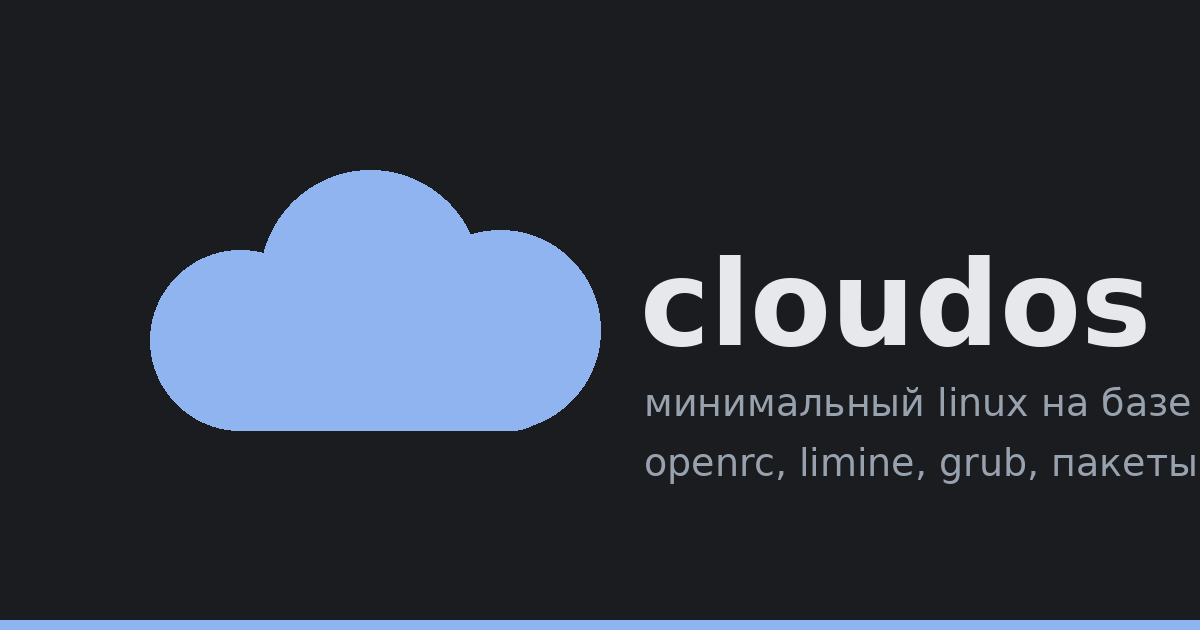
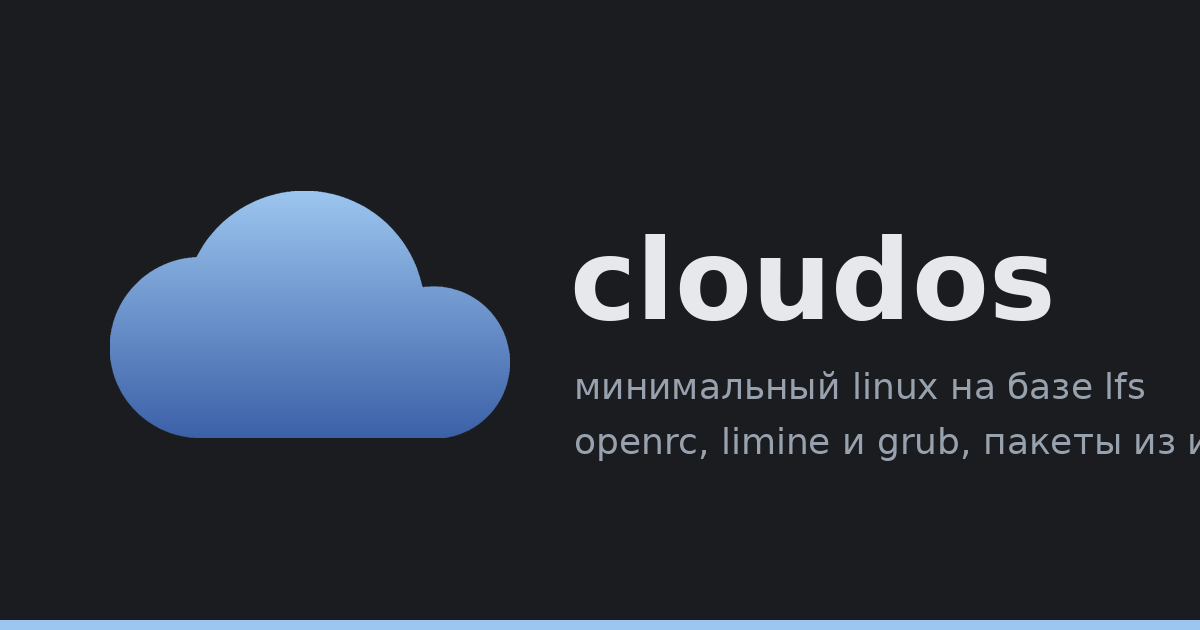
Add files via upload

Changed region(s): [[0.0925, 0.2714, 1.0, 0.7841]]

diff --git a/docs/i18n.js b/docs/i18n.js
@@ -45,6 +45,22 @@ var D={
 };
 var X2={"другие": "more", "железо": "hardware", "мастер установки": "install wizard", "картинки доступны только участникам с аккаунтом, не анонимам": "images are available only to members with an account, not anonymous users", "причина:": "reason:", "закреплено": "pinned", "закрыто": "closed", "закрытый": "private", "последний": "latest", "бета": "beta", "голосов:": "votes:", "изменено": "edited", "скачиваний:": "downloads:", "написал в вашем профиле": "wrote on your profile", "ответил в вашей теме": "replied in your thread", "ответил в теме, на которую вы подписаны": "replied in a thread you follow", "оценил ваше сообщение": "liked your post", "прокомментировал ваше сообщение": "commented on your post", "упомянул вас": "mentioned you", "полностью из базы вместе с темами и сообщениями? это нельзя отменить": "completely from the database with its threads and posts? this cannot be undone", "раздел видят только выбранные роли и админы. если ничего не выбрано, раздел открыт для всех.": "only the selected roles and admins can see this board. if nothing is selected, the board is open to everyone.", "открыть релизы на github": "open releases on github", "страница на github": "page on github", "предпросмотр:": "preview:", "баннер, цвет 1": "banner, color 1", "баннер, цвет 2": "banner, color 2", "ник, цвет 1": "nickname, color 1", "ник, цвет 2": "nickname, color 2", "угол": "angle", "найти": "find", "так будут выглядеть фон и шапка": "this is how the background and header will look", "без роли": "no role", "цвет 1": "color 1", "цвет 2": "color 2", "комментарий": "comment", "выбрать": "choose", "выдать значок": "award badge", "выше": "up", "ниже": "down", "доступ": "access", "закрыть жалобу": "close report", "изменить": "edit", "комментировать": "comment", "название": "name", "описание": "description", "пожаловаться": "report", "права": "permissions", "профиль": "profile", "закладки": "bookmarks", "реакция": "reaction", "сбросить профиль": "reset profile", "скрыть": "hide", "снять": "remove", "сообщения": "messages", "сохранить доступ": "save access", "сохранить права": "save permissions", "удалить жалобу": "delete report", "удалить значок": "delete badge", "удалить сообщение": "delete post", "удалить тему": "delete thread", "удалить": "delete", "управление": "manage", "условие": "condition", "цитата": "quote", "эмодзи": "emoji", "включить градиент": "enable gradient", "градиент ника": "nickname gradient", "сообщений за 7 дней": "posts in 7 days", "новых участников за 7 дней": "new members in 7 days", "открытых жалоб": "open reports", "активных банов": "active bans", "активных мутов": "active mutes", "тем": "threads", "участников": "members", "последние действия": "recent actions", "журнал": "log", "весь журнал": "full log", "все действия": "all actions", "все": "all", "обзор": "overview", "значки": "badges", "роли": "roles", "жалобы": "reports", "муты": "mutes", "баны": "bans", "админы": "admins", "вид": "view", "записей пока нет": "no entries yet", "жалоб пока нет": "no reports yet", "значков пока нет": "no badges yet", "журнал недоступен": "log unavailable", "значки недоступны": "badges unavailable", "жалобы недоступны": "reports unavailable", "панель недоступна": "panel unavailable", "нет доступа": "no access", "нет доступа.": "no access.", "эта страница только для администратора.": "this page is for the administrator only.", "сообщение уже удалено.": "this post is already deleted.", "ошибка загрузки": "loading error", "форум не запустился": "the forum failed to start", "неизвестная ошибка": "unknown error", "инициализация": "initialization", "пока пусто": "nothing here yet", "никого": "nobody", "никого не найдено": "nobody found", "никто не выбран": "nobody selected", "сначала выбери участника из поиска": "choose a member from the search first", "тем не найдено": "no threads found", "забанить": "ban", "замутить": "mute", "забаненные": "banned", "замученные": "muted", "панель банов": "bans panel", "панель мутов": "mutes panel", "снять бан": "lift ban", "снять мут": "lift mute", "снят бан": "ban lifted", "снят мут": "mute lifted", "снят": "lifted", "бан": "ban", "мут": "mute", "банить": "ban", "мутить": "mute", "бан до": "banned until", "мут до": "muted until", "вы забанены до": "you are banned until", "вы замучены до": "you are muted until", "вы в муте:": "you are muted:", "ваш аккаунт заблокирован:": "your account is blocked:", "причина (необязательно)": "reason (optional)", "срок: 10m, 1h, 1d, 7d, 30d или навсегда": "duration: 10m, 1h, 1d, 7d, 30d or forever", "неверный срок, пример: 30m, 2h, 3d, навсегда": "invalid duration, for example: 30m, 2h, 3d, forever", "нужно право мутить или банить.": "you need the permission to mute or ban.", "1 час": "1 hour", "1 день": "1 day", "10 минут": "10 minutes", "7 дней": "7 days", "30 дней": "30 days", "навсегда": "forever", "выдал бан": "issued a ban", "выдал мут": "issued a mute", "закрепил тему": "pinned a thread", "открепил тему": "unpinned a thread", "закрыл тему": "closed a thread", "открыл тему": "opened a thread", "удалил пользователя": "deleted a user", "удалил сообщение": "deleted a post", "удалил тему": "deleted a thread", "сбросил профиль": "reset a profile", "сменил роль": "changed a role", "снял бан": "lifted a ban", "снял мут": "lifted a mute", "изменил доступ к разделу": "changed board access", "изменил права": "changed permissions", "изменил статус админа": "changed admin status", "создал тему": "created a thread", "банить участников": "ban members", "мутить участников": "mute members", "закреплять темы": "pin threads", "закрывать и открывать темы": "close and open threads", "удалять темы": "delete threads", "удалять чужие сообщения": "delete other people's posts", "удалять комментарии в профилях": "delete profile comments", "выдавать роли без прав": "assign roles without permissions", "создать роль": "create role", "сохранить роль": "save role", "удалить роль?": "delete role?", "права этой роли": "permissions of this role", "роль": "role", "назначен": "assigned", "без прав": "no permissions", "прав:": "permissions:", "сделать админом": "make admin", "снять админа": "remove admin", "сделать администратором? он получит полный доступ": "make administrator? they will get full access", "снять права администратора?": "remove administrator rights?", "снять ограничение?": "remove the restriction?", "сбросить аватар, баннер, о себе и статус этого участника?": "reset this member's avatar, banner, about and status?", "профиль сброшен": "profile reset", "удалить значок у всех?": "delete the badge from everyone?", "удалить раздел со всеми темами?": "delete the board with all its threads?", "добавить раздел": "add board", "новый раздел": "new board", "новое название": "new name", "описание раздела": "board description", "создать значок": "create badge", "условие: posts, likes, threads, solved или days и число, например posts 10. пусто - убрать условие": "condition: posts, likes, threads, solved or days and a number, for example posts 10. empty to remove the condition", "нужен формат: posts 10": "format required: posts 10", "сохранено": "saved", "после сохранения объявление снова покажется всем, кто его скрыл.": "after saving, the announcement will be shown again to everyone who hid it.", "показывать объявление": "show announcement", "объявление": "announcement", "обычное": "normal", "важное": "important", "важно": "important", "картинка (файл)": "image (file)", "картинка баннера (ссылка https, необязательно)": "banner image (https link, optional)", "дн.": "d.", "имя можно сменить через": "the name can be changed in", "на форуме с": "on the forum since", "рейтинг:": "rating:", "рейтинг ·": "rating ·", "ответов:": "replies:", "тем:": "threads:", "участников:": "members:", "гостей:": "guests:", "сейчас активны": "active now", "это ты": "this is you", "вы:": "you:", "новая": "new", "закрыта": "closed", "новых:": "new:", "не удалось создать тему:": "could not create the thread:", "не удалось создать сообщение:": "could not create the post:", "не удалось удалить:": "could not delete:", "тема создана, но опрос не создался:": "thread created, but the poll was not created:", "не загрузился файл:": "file failed to load:", "убрать из закладок": "remove from bookmarks", "в закладки": "add to bookmarks", "убрать тему из закладок": "remove thread from bookmarks", "отписаться от темы": "unsubscribe from thread", "подписаться на тему": "subscribe to thread", "открыть": "open", "закрыть": "close", "открепить": "unpin", "закрепить": "pin", "снять отметку «решено»": "remove the \"solved\" mark", "отметить решённой": "mark as solved", "изменить теги": "edit tags", "добавить теги": "add tags", "можно выбрать несколько": "multiple choice", "один вариант": "single choice", "сообщение от": "post from", "удалён": "deleted", "участник": "member", "[картинка]": "[image]", "писал(а):": "wrote:", "готовый скрипт под твой диск": "ready script for your disk", "что нового в cloudos: готовое, в работе и планы.": "what is new in cloudos: done, in progress and plans.", "что входит в stage 3 и что ставится через cloudpkg.": "what is in stage 3 and what is installed via cloudpkg.", "на чём cloudos уже проверен.": "what cloudos has been tested on.", "новое: cloudos": "news: cloudos", "пакеты: cloudos": "packages: cloudos", "релизы cloudos": "cloudos releases", "форум cloudos": "cloudos forum", "железо: cloudos": "hardware: cloudos", "мастер установки: cloudos": "install wizard: cloudos", "библиотеки": "libraries", "инструменты сборки": "build tools", "утилиты": "utilities", "система": "system", "сеть": "network", "файловые системы": "file systems", "файловая система": "file system", "имя": "name", "введи диск и режим, получи готовый скрипт установки cloudos.": "enter your disk and mode, get a ready cloudos install script.", "маленькие буквы, цифры и дефис": "lowercase letters, digits and hyphen", "маленькие буквы, цифры, дефис": "lowercase letters, digits, hyphen", "формат: /dev/sda, /dev/vda или /dev/nvme0n1": "format: /dev/sda, /dev/vda or /dev/nvme0n1", "формат: 6.18.10": "format: 6.18.10", "формат: Europe/Moscow": "format: Europe/Moscow", "число от 0 до 128": "number from 0 to 128", "ошибка": "error", "выполняй в живой системе. выход: exit, потом umount -R /mnt/cloudos.": "run in the live system. to leave: exit, then umount -R /mnt/cloudos.", "выполняй в живой системе, раздел boot уже смонтирован.": "run in the live system, the boot partition is already mounted.", "выполняй внутри chroot.": "run inside chroot.", "uuid в fstab и в конфиге загрузчика должны совпадать с blkid.": "uuids in fstab and in the bootloader config must match blkid.", "заметка": "note", "примечание": "note", "выбран:": "selected:", "локаль": "locale", "службы": "services", "подписаться": "subscribe", "поиск по форуму": "search the forum"};
 X2["ссылка скопирована"]="link copied";
+X2["установка"]="install";
+X2["проект"]="project";
+X2["помощник по ядру"]="kernel helper";
+X2["определение железа"]="hardware detection";
+X2["схема загрузки"]="boot flow";
+X2["состав stage 3"]="stage 3 contents";
+X2["отметь"]="select";
+X2["отмечаешь своё железо и получаешь готовую команду настройки ядра с проверкой, что всё включилось."]="you select your hardware and get a ready kernel configuration command with a check that everything was enabled.";
+X2["вставляешь вывод lsblk и lspci: сайт находит диски для мастера, настройки ядра и готовит запись для таблицы железа."]="you paste the output of lsblk and lspci: the site finds disks for the wizard, kernel settings and prepares an entry for the hardware table.";
+X2["интерактивная схема от прошивки до входа в систему: файлы, команды проверки и типичные поломки каждого этапа."]="an interactive diagram from firmware to login: files, check commands and typical failures of every stage.";
+X2["карта размеров: из каких каталогов состоит система и сколько места они занимают."]="a size map: which directories the system consists of and how much space they take.";
+X2["подсказки к командам"]="command hints";
+X2["в справочнике у блоков кода появилась кнопка с вопросом: она объясняет каждую команду и её ключи."]="code blocks in the handbook now have a question button: it explains each command and its options.";
+X2["режимы чтения"]="reading modes";
+X2["в настройках: размер текста, высокий контраст и режим «только команды» для справочника. Ctrl+K теперь умеет и действия, а знак вопроса открывает палитру."]="in settings: text size, high contrast and a commands-only mode for the handbook. Ctrl+K now also runs actions, and the question mark opens the palette.";
+
 X2["установка как в gentoo: вручную по справочнику или одним скриптом из мастера установки. каждый шаг подробно описан в справочнике."]="installation like in gentoo: by hand following the handbook, or with a single script from the install wizard. every step is described in detail in the handbook.";
 X2["графического установщика"]="a graphical installer";
 X2["limine и grub"]="limine and grub";

diff --git a/docs/index.html b/docs/index.html
@@ -21,12 +21,12 @@
 <link rel="preconnect" href="https://fonts.googleapis.com">
 <link rel="preconnect" href="https://fonts.gstatic.com" crossorigin>
 <link href="https://fonts.googleapis.com/css2?family=IBM+Plex+Mono:wght@400;500&family=IBM+Plex+Sans:wght@400;500;600&display=swap" rel="stylesheet">
-<link rel="stylesheet" href="style.css?v=10">
+<link rel="stylesheet" href="style.css?v=11">
 <link rel="stylesheet" href="site.css?v=1">
 <link rel="stylesheet" href="theme.css?v=5">
-<link rel="stylesheet" href="settings.css?v=2">
-<script src="theme.js?v=8"></script>
-<script src="i18n.js?v=2"></script>
+<link rel="stylesheet" href="settings.css?v=3">
+<script src="theme.js?v=9"></script>
+<script src="i18n.js?v=3"></script>
 <script src="gate.js?v=2"></script>
 <meta name="google-site-verification" content="18RICMRH_Gf_bcSQ7dL6TLRFiu3xmfDnoj_icw04Zkg" />
 <script type="application/ld+json">{"@context": "https://schema.org", "@type": "SoftwareApplication", "name": "CloudOS", "alternateName": "cloudos", "applicationCategory": "OperatingSystem", "operatingSystem": "Linux x86_64", "description": "cloudos: минимальный linux на базе lfs. openrc, ванильное ядро, limine или grub, пакеты из исходников.", "url": "https://wh1laye.github.io/cloudos-repo/", "image": "https://wh1laye.github.io/cloudos-repo/og.png", "license": "https://opensource.org/licenses/MIT", "author": {"@type": "Person", "name": "wh1laye", "url": "https://github.com/wh1laye"}, "codeRepository": "https://github.com/wh1laye/cloudos-repo"}</script>
@@ -34,7 +34,7 @@
 <body>
 <header class="top">
 <a class="brand" href="./" aria-label="cloudos"><svg viewBox="0 0 64 40" aria-hidden="true"><defs><linearGradient id="g" x1="0" y1="0" x2="0" y2="1"><stop offset="0" stop-color="#9cc8f2"/><stop offset="1" stop-color="#3b5fa8"/></linearGradient></defs><path d="M29.72 1.00C29.24 1.04 28.61 1.12 28.05 1.21C27.50 1.31 26.94 1.43 26.39 1.59C25.83 1.74 25.28 1.93 24.72 2.13C24.17 2.34 23.61 2.56 23.05 2.83C22.50 3.09 21.94 3.38 21.39 3.73C20.83 4.08 20.26 4.48 19.72 4.90C19.19 5.32 18.66 5.78 18.18 6.25C17.69 6.72 17.24 7.21 16.81 7.74C16.38 8.26 15.95 8.85 15.59 9.41C15.23 9.96 15.07 10.75 14.63 11.07C14.20 11.40 13.53 11.25 12.98 11.36C12.43 11.46 11.87 11.55 11.32 11.71C10.76 11.87 10.20 12.07 9.65 12.31C9.09 12.56 8.54 12.83 7.98 13.16C7.43 13.50 6.83 13.91 6.31 14.33C5.80 14.75 5.36 15.19 4.91 15.68C4.46 16.18 4.00 16.76 3.62 17.31C3.24 17.86 2.94 18.42 2.66 18.98C2.38 19.54 2.15 20.09 1.95 20.65C1.76 21.20 1.61 21.76 1.49 22.31C1.38 22.87 1.30 23.43 1.26 23.98C1.22 24.54 1.24 25.09 1.26 25.65C1.28 26.20 1.32 26.76 1.40 27.31C1.49 27.87 1.60 28.43 1.76 28.98C1.92 29.54 2.12 30.09 2.36 30.65C2.61 31.20 2.88 31.76 3.23 32.31C3.58 32.87 4.01 33.46 4.44 33.98C4.86 34.50 5.30 34.97 5.80 35.42C6.31 35.87 6.91 36.32 7.47 36.69C8.02 37.07 8.58 37.38 9.13 37.65C9.69 37.92 10.25 38.13 10.80 38.31C11.36 38.49 11.91 38.63 12.47 38.73C13.02 38.84 13.58 38.88 14.13 38.93C14.69 38.97 15.25 38.99 15.80 39.00C16.36 39.01 16.91 39.00 17.47 39.00C18.02 39.00 18.58 39.00 19.14 39.00C19.69 39.00 20.25 39.00 20.80 39.00C21.36 39.00 21.91 39.00 22.47 39.00C23.02 39.00 23.58 39.00 24.14 39.00C24.69 39.00 25.25 39.00 25.80 39.00C26.36 39.00 26.91 39.00 27.47 39.00C28.03 39.00 28.58 39.00 29.14 39.00C29.69 39.00 30.25 39.00 30.80 39.00C31.36 39.00 31.91 39.00 32.47 39.00C33.03 39.00 33.58 39.00 34.14 39.00C34.69 39.00 35.25 39.00 35.80 39.00C36.36 39.00 36.91 39.00 37.47 39.00C38.03 39.00 38.58 39.00 39.14 39.00C39.69 39.00 40.25 39.00 40.80 39.00C41.36 39.00 41.92 39.00 42.47 39.00C43.03 39.00 43.58 39.00 44.14 39.00C44.69 39.00 45.25 39.00 45.80 39.00C46.36 39.00 46.92 39.00 47.47 39.00C48.03 39.00 48.58 39.00 49.14 39.00C49.69 39.00 50.25 39.00 50.80 39.00C51.36 39.00 51.92 39.05 52.47 39.00C53.03 38.95 53.58 38.85 54.14 38.70C54.69 38.54 55.25 38.33 55.81 38.08C56.36 37.82 56.93 37.54 57.47 37.17C58.02 36.81 58.60 36.35 59.09 35.88C59.58 35.41 60.02 34.90 60.42 34.37C60.81 33.84 61.17 33.26 61.46 32.71C61.75 32.15 61.97 31.59 62.15 31.04C62.34 30.48 62.46 29.93 62.56 29.37C62.66 28.82 62.72 28.26 62.74 27.70C62.76 27.15 62.74 26.59 62.67 26.04C62.60 25.48 62.47 24.93 62.31 24.37C62.16 23.82 61.99 23.26 61.75 22.70C61.50 22.15 61.19 21.59 60.82 21.04C60.46 20.49 60.02 19.90 59.56 19.41C59.11 18.91 58.60 18.46 58.08 18.06C57.55 17.66 56.96 17.30 56.41 17.01C55.85 16.72 55.30 16.51 54.74 16.32C54.19 16.13 53.63 16.00 53.07 15.90C52.52 15.79 51.96 15.71 51.41 15.68C50.85 15.66 50.15 15.95 49.74 15.75C49.33 15.56 49.16 15.01 48.94 14.53C48.72 14.05 48.62 13.42 48.41 12.86C48.20 12.31 47.95 11.75 47.67 11.20C47.39 10.64 47.08 10.08 46.73 9.53C46.37 8.97 45.95 8.39 45.52 7.86C45.09 7.33 44.64 6.84 44.16 6.36C43.67 5.87 43.16 5.40 42.63 4.97C42.10 4.55 41.52 4.15 40.96 3.80C40.41 3.46 39.85 3.17 39.30 2.90C38.74 2.63 38.19 2.38 37.63 2.17C37.07 1.96 36.52 1.77 35.96 1.62C35.41 1.47 34.85 1.34 34.30 1.25C33.74 1.15 33.19 1.09 32.63 1.05C32.07 1.01 31.45 1.01 30.96 1.00C30.48 0.99 30.21 0.96 29.72 1.00Z" fill="url(#g)"/></svg>cloudos</a>
-<nav class="hl"><a class="gh on" aria-current="page" href=""><svg viewBox="0 0 24 24" aria-hidden="true"><path d="M4 11l8-7 8 7v9h-5v-6H9v6H4z"/></svg><span>главная</span></a><a class="gh" href="handbook/"><svg viewBox="0 0 24 24" aria-hidden="true"><path d="M5 4h11a3 3 0 0 1 3 3v13H8a3 3 0 0 1-3-3zM5 17a3 3 0 0 1 3-3h11"/></svg><span>справочник</span></a><div class="ddw"><button type="button" class="gh" id="ob" aria-haspopup="true" aria-expanded="false"><svg viewBox="0 0 24 24" aria-hidden="true"><path d="M5 12h.01M12 12h.01M19 12h.01" stroke-width="3"/></svg><span>другие</span></button><div class="ddm" id="om" hidden><a class="ddi" href="news/"><svg viewBox="0 0 24 24" aria-hidden="true"><path d="M12 3l2.4 5.6 6 .6-4.5 4 1.4 6-5.3-3.2L6.7 19.2l1.4-6-4.5-4 6-.6z"/></svg>новое</a><a class="ddi" href="hardware/"><svg viewBox="0 0 24 24" aria-hidden="true"><path d="M7 7h10v10H7zM9 3v4M15 3v4M9 17v4M15 17v4M3 9h4M3 15h4M17 9h4M17 15h4"/></svg>железо</a><a class="ddi" href="packages/"><svg viewBox="0 0 24 24" aria-hidden="true"><path d="M12 3l8 4.5v9L12 21l-8-4.5v-9zM4 7.5l8 4.5 8-4.5M12 12v9"/></svg>пакеты</a><a class="ddi" href="wizard/"><svg viewBox="0 0 24 24" aria-hidden="true"><path d="M4 5h16v14H4zM7 9l3 3-3 3M12 15h5"/></svg>мастер установки</a><a class="ddi" href="compare/"><svg viewBox="0 0 24 24" aria-hidden="true"><path d="M12 4v16M5 20h14M5 7h14M5 7l-3 6a3 3 0 0 0 6 0zM19 7l-3 6a3 3 0 0 0 6 0z"/></svg>сравнение</a></div></div><a class="gh" href="forum/"><svg viewBox="0 0 24 24" aria-hidden="true"><path d="M4 5h16v11H9l-5 4z"/></svg><span>форум</span></a><a class="gh" href="releases/"><svg viewBox="0 0 24 24" aria-hidden="true"><path d="M12 4v11M7 11l5 5 5-5M5 20h14"/></svg><span>релизы</span></a></nav>
+<nav class="hl"><a class="gh on" aria-current="page" href=""><svg viewBox="0 0 24 24" aria-hidden="true"><path d="M4 11l8-7 8 7v9h-5v-6H9v6H4z"/></svg><span>главная</span></a><a class="gh" href="handbook/"><svg viewBox="0 0 24 24" aria-hidden="true"><path d="M5 4h11a3 3 0 0 1 3 3v13H8a3 3 0 0 1-3-3zM5 17a3 3 0 0 1 3-3h11"/></svg><span>справочник</span></a><div class="ddw"><button type="button" class="gh" id="ob" aria-haspopup="true" aria-expanded="false"><svg viewBox="0 0 24 24" aria-hidden="true"><path d="M5 12h.01M12 12h.01M19 12h.01" stroke-width="3"/></svg><span>другие</span></button><div class="ddm" id="om" hidden><div class="ddh">установка</div><a class="ddi" href="wizard/"><svg viewBox="0 0 24 24" aria-hidden="true"><path d="M4 5h16v14H4zM7 9l3 3-3 3M12 15h5"/></svg>мастер установки</a><a class="ddi" href="kernel/"><svg viewBox="0 0 24 24" aria-hidden="true"><path d="M12 8a4 4 0 1 0 0 8 4 4 0 0 0 0-8zM12 2v3M12 19v3M2 12h3M19 12h3M5 5l2 2M17 17l2 2M19 5l-2 2M7 17l-2 2"/></svg>помощник по ядру</a><a class="ddi" href="detect/"><svg viewBox="0 0 24 24" aria-hidden="true"><circle cx="11" cy="11" r="6"/><path d="M16 16l5 5"/></svg>определение железа</a><a class="ddi" href="boot/"><svg viewBox="0 0 24 24" aria-hidden="true"><path d="M12 3v8M6.5 6.5a8 8 0 1 0 11 0"/></svg>схема загрузки</a><div class="ddh">проект</div><a class="ddi" href="news/"><svg viewBox="0 0 24 24" aria-hidden="true"><path d="M12 3l2.4 5.6 6 .6-4.5 4 1.4 6-5.3-3.2L6.7 19.2l1.4-6-4.5-4 6-.6z"/></svg>новое</a><a class="ddi" href="hardware/"><svg viewBox="0 0 24 24" aria-hidden="true"><path d="M7 7h10v10H7zM9 3v4M15 3v4M9 17v4M15 17v4M3 9h4M3 15h4M17 9h4M17 15h4"/></svg>железо</a><a class="ddi" href="packages/"><svg viewBox="0 0 24 24" aria-hidden="true"><path d="M12 3l8 4.5v9L12 21l-8-4.5v-9zM4 7.5l8 4.5 8-4.5M12 12v9"/></svg>пакеты</a><a class="ddi" href="stage3/"><svg viewBox="0 0 24 24" aria-hidden="true"><path d="M12 3l9 5-9 5-9-5zM3 13l9 5 9-5"/></svg>состав stage 3</a><a class="ddi" href="compare/"><svg viewBox="0 0 24 24" aria-hidden="true"><path d="M12 4v16M5 20h14M5 7h14M5 7l-3 6a3 3 0 0 0 6 0zM19 7l-3 6a3 3 0 0 0 6 0z"/></svg>сравнение</a></div></div><a class="gh" href="forum/"><svg viewBox="0 0 24 24" aria-hidden="true"><path d="M4 5h16v11H9l-5 4z"/></svg><span>форум</span></a><a class="gh" href="releases/"><svg viewBox="0 0 24 24" aria-hidden="true"><path d="M12 4v11M7 11l5 5 5-5M5 20h14"/></svg><span>релизы</span></a></nav>
 </header>
 <main class="lp" id="top">
 <section class="hero">
@@ -126,6 +126,6 @@
 </footer>
 </main>
 <script src="site.js?v=1"></script>
-<script src="cmdk.js?v=1" defer></script>
+<script src="cmdk.js?v=2" defer></script>
 </body>
 </html>

diff --git a/docs/cmdk.js b/docs/cmdk.js
@@ -1,21 +1,40 @@
 (function(){
-if(/\/handbook\//.test(location.pathname))return;
+if(/\/handbook\//.test(location.pathname)&&false)return;
 var d=document,sc=d.currentScript,root=sc?sc.src.replace(/cmdk\.js.*$/,''):'';
-if(window.I18N&&window.I18N.add)window.I18N.add({'мастер установки':'install wizard'});
-var P=[["", "главная"], ["wizard/", "мастер установки"],["compare/", "сравнение"], ["handbook/", "справочник"], ["news/", "новое"], ["forum/", "форум"], ["releases/", "релизы"], ["packages/", "пакеты"], ["hardware/", "железо"]];
+if(window.I18N&&window.I18N.add)window.I18N.add({"действие": "action", "помощник по ядру": "kernel helper", "определение железа": "hardware detection", "схема загрузки": "boot flow", "состав stage 3": "stage 3 contents", "тема: светлая": "theme: light", "тема: серая": "theme: gray", "тема: авто": "theme: auto", "язык: english": "language: english", "язык: русский": "language: russian", "текст крупнее": "larger text", "текст мельче": "smaller text", "высокий контраст: переключить": "high contrast: toggle", "только команды в справочнике: переключить": "commands only in the handbook: toggle", "открыть настройки": "open settings", "скопировать ссылку на страницу": "copy page link"});
+var P=[["", "главная"], ["handbook/", "справочник"], ["wizard/", "мастер установки"], ["kernel/", "помощник по ядру"], ["detect/", "определение железа"], ["boot/", "схема загрузки"], ["stage3/", "состав stage 3"], ["compare/", "сравнение"], ["news/", "новое"], ["forum/", "форум"], ["releases/", "релизы"], ["packages/", "пакеты"], ["hardware/", "железо"]];
 var C=[["about", "1. о cloudos"], ["prep", "2. подготовка"], ["disk", "3. диск и файловые системы"], ["stage", "4. stage 3"], ["chroot", "5. вход в chroot"], ["conf", "6. настройка сборки"], ["kernel", "7. ядро"], ["boot", "8. загрузчик"], ["final", "9. завершение"], ["first", "10. первая загрузка"], ["cpkg", "11. пакеты и cloudpkg"], ["maint", "12. обслуживание"], ["next", "13. что дальше"], ["errors", "14. ошибки и решения"], ["cheat", "15. шпаргалка"], ["faq", "16. вопросы и ответы"], ["appa", "приложение а. имена дисков"], ["appb", "приложение б. btrfs с подтомами"], ["appc", "приложение в. словарь"]];
 var el=null,inp=null,ls=null,sel=0,cur=[];
 function lg(){return window.CloudTheme?window.CloudTheme.getLang():'ru'}
 function tr(s){return window.I18N&&window.I18N.t?window.I18N.t(s):s}
+function CT(){return window.CloudTheme||{}}
+function acts(){
+  var T=CT(),r=T.getRd?T.getRd():{fs:0,hc:0,cmd:0};
+  return [
+    {t:'тема: светлая',f:function(){T.set('light')}},
+    {t:'тема: серая',f:function(){T.set('gray')}},
+    {t:'тема: авто',f:function(){T.setAuto()}},
+    {t:'язык: english',f:function(){T.setLang('en')}},
+    {t:'язык: русский',f:function(){T.setLang('ru')}},
+    {t:'текст крупнее',f:function(){T.setRd({fs:Math.min(2,r.fs+1)})}},
+    {t:'текст мельче',f:function(){T.setRd({fs:Math.max(0,r.fs-1)})}},
+    {t:'высокий контраст: переключить',f:function(){T.setRd({hc:r.hc?0:1})}},
+    {t:'только команды в справочнике: переключить',f:function(){T.setRd({cmd:r.cmd?0:1})}},
+    {t:'открыть настройки',f:function(){T.openSettings()}},
+    {t:'скопировать ссылку на страницу',f:function(){T.copy(location.href)}}
+  ];
+}
 function all(){
-  var en=lg()==='en',hb=root+(en?'handbook/en/':'handbook/'),r=[],i;
+  var en=lg()==='en',hb=root+(en?'handbook/en/':'handbook/'),r=[],i,a;
   for(i=0;i<P.length;i++)r.push({t:P[i][1],u:root+P[i][0]});
   for(i=0;i<C.length;i++)r.push({t:C[i][1],u:hb+'#'+C[i][0],s:'справочник'});
+  a=acts();
+  for(i=0;i<a.length;i++)r.push({t:a[i].t,f:a[i].f,s:'действие'});
   return r;
 }
 function build(){
   var st=d.createElement('style');
-  st.textContent='.ck{position:fixed;inset:0;z-index:90;display:flex;justify-content:center;align-items:flex-start;padding:12vh 16px 0;background:rgba(0,0,0,.4)}.ck[hidden]{display:none}.ckb{width:100%;max-width:520px;border:1px solid var(--line);border-radius:14px;background:var(--surf);color:var(--ink);overflow:hidden}.ckb input{width:100%;padding:14px 16px;border:0;border-bottom:1px solid var(--line);background:none;color:var(--ink);font:inherit;font-size:16px;outline:0}.ckl{max-height:50vh;overflow-y:auto;padding:6px}.cki{display:flex;justify-content:space-between;gap:12px;padding:9px 12px;border-radius:9px;color:var(--ink);text-decoration:none;font-size:15px}.cki span{color:var(--mute);font-size:13px}.cki.on{background:var(--soft);color:var(--ac)}.cke{padding:14px 16px;color:var(--mute);font-size:14px}';
+  st.textContent='.ck{position:fixed;inset:0;z-index:90;display:flex;justify-content:center;align-items:flex-start;padding:12vh 16px 0;background:rgba(0,0,0,.4)}.ck[hidden]{display:none}.ckb{width:100%;max-width:520px;border:1px solid var(--line);border-radius:14px;background:var(--surf);color:var(--ink);overflow:hidden}.ckb input{width:100%;padding:14px 16px;border:0;border-bottom:1px solid var(--line);background:none;color:var(--ink);font:inherit;font-size:16px;outline:0}.ckl{max-height:50vh;overflow-y:auto;padding:6px}.cki{display:flex;justify-content:space-between;gap:12px;padding:9px 12px;border-radius:9px;color:var(--ink);text-decoration:none;font-size:15px;cursor:pointer}.cki span{color:var(--mute);font-size:13px}.cki.on{background:var(--soft);color:var(--ac)}.cke{padding:14px 16px;color:var(--mute);font-size:14px}';
   d.head.appendChild(st);
   el=d.createElement('div');el.className='ck';el.hidden=true;
   el.innerHTML='<div class="ckb" role="dialog" aria-modal="true"><input type="text" autocomplete="off" spellcheck="false" aria-label="search"><div class="ckl"></div></div>';
@@ -26,8 +45,12 @@ function build(){
   inp.addEventListener('keydown',function(e){
     if(e.key==='ArrowDown'){sel=Math.min(cur.length-1,sel+1);mark();e.preventDefault()}
     else if(e.key==='ArrowUp'){sel=Math.max(0,sel-1);mark();e.preventDefault()}
-    else if(e.key==='Enter'&&cur[sel]){location.href=cur[sel].u}
+    else if(e.key==='Enter'&&cur[sel])run(cur[sel]);
   });
+}
+function run(x){
+  if(x.f){close();x.f();return}
+  location.href=x.u;
 }
 function mark(){
   var n=ls.children,i;
@@ -39,15 +62,17 @@ function draw(){
   cur=[];ls.textContent='';
   for(i=0;i<a.length;i++){
     t=tr(a[i].t);
-    if(!q||t.toLowerCase().indexOf(q)>=0||a[i].t.toLowerCase().indexOf(q)>=0)cur.push({t:t,u:a[i].u,s:a[i].s?tr(a[i].s):''});
+    if(!q||t.toLowerCase().indexOf(q)>=0||a[i].t.toLowerCase().indexOf(q)>=0)cur.push({t:t,u:a[i].u,f:a[i].f,s:a[i].s?tr(a[i].s):''});
   }
   if(!cur.length){x=d.createElement('div');x.className='cke';x.textContent=tr('ничего не найдено');ls.appendChild(x);return}
-  for(i=0;i<cur.length;i++){
-    x=d.createElement('a');x.className='cki';x.href=cur[i].u;
-    x.appendChild(d.createTextNode(cur[i].t));
-    if(cur[i].s){var s=d.createElement('span');s.textContent=cur[i].s;x.appendChild(s)}
+  cur.forEach(function(c,k){
+    var x=d.createElement('a');x.className='cki';
+    if(c.u)x.href=c.u;
+    x.appendChild(d.createTextNode(c.t));
+    if(c.s){var s=d.createElement('span');s.textContent=c.s;x.appendChild(s)}
+    x.addEventListener('click',function(e){if(c.f){e.preventDefault();run(c)}});
     ls.appendChild(x);
-  }
+  });
   mark();
 }
 function open(){
@@ -56,11 +81,14 @@ function open(){
 }
 function close(){if(el)el.hidden=true}
 d.addEventListener('keydown',function(e){
+  var t=e.target&&e.target.tagName;
   if((e.ctrlKey||e.metaKey)&&(e.key==='k'||e.key==='K')){
-    var t=e.target&&e.target.tagName;
-    if(location.pathname.indexOf('/forum/')>=0&&(t==='TEXTAREA'))return;
+    if(location.pathname.indexOf('/forum/')>=0&&t==='TEXTAREA')return;
+    if(/\/handbook\//.test(location.pathname)&&window.__hbsearch)return;
     e.preventDefault();
     if(el&&!el.hidden)close();else open();
+  }else if(e.key==='?'&&t!=='INPUT'&&t!=='TEXTAREA'&&!e.ctrlKey&&!e.metaKey&&!(e.target&&e.target.isContentEditable)){
+    if(!el||el.hidden){e.preventDefault();open()}
   }else if(e.key==='Escape'&&el&&!el.hidden)close();
 });
 })();

diff --git a/docs/theme.js b/docs/theme.js
@@ -26,7 +26,7 @@
     'фон сайта':'site background','включить градиент фона':'enable background gradient',
     'угол':'angle','пресеты':'presets','включить светлую тему':'switch to light theme',
     'включить серую тему':'switch to gray theme','светлая тема':'light theme','серая тема':'gray theme',
-    'авто':'auto','предпросмотр':'preview','кнопка':'button'
+    'авто':'auto','чтение':'reading','размер текста':'text size','обычный':'normal','крупнее':'larger','ещё крупнее':'largest','высокий контраст':'high contrast','только команды в справочнике':'commands only in the handbook','предпросмотр':'preview','кнопка':'button'
   };
   function lang(){
     try{var l=localStorage.getItem('lang');if(l==='ru'||l==='en')return l}catch(e){}
@@ -145,12 +145,43 @@
     light:[['#dbeafe','#f4f8fd',160],['#e6f4ea','#f6faf7',160],['#fde8d8','#fbf6f1',160],['#ece4fb','#f7f4fd',160]],
     gray:[['#1f2a3d','#1a1c20',160],['#1e2f27','#1a1c20',160],['#33232b','#1a1c20',160],['#2b2540','#1a1c20',160]]
   };
+  function rdGet(){var o={};try{o=JSON.parse(localStorage.getItem('rd'))||{}}catch(e){}return{fs:+o.fs>=0&&+o.fs<=2?+o.fs:0,hc:o.hc?1:0,cmd:o.cmd?1:0}}
+  function rdApply(o){
+    if(o.fs)h.setAttribute('data-fs',String(o.fs));else h.removeAttribute('data-fs');
+    if(o.hc)h.setAttribute('data-hc','1');else h.removeAttribute('data-hc');
+    if(o.cmd)h.setAttribute('data-cmd','1');else h.removeAttribute('data-cmd');
+  }
+  function rdSet(p){
+    var o=rdGet(),k;
+    for(k in p)o[k]=p[k];
+    o.fs=Math.max(0,Math.min(2,+o.fs||0));
+    try{localStorage.setItem('rd',JSON.stringify(o))}catch(e){}
+    rdApply(o);rdSync();touch();
+  }
+  function rdSync(){
+    if(!sp)return;
+    var o=rdGet();
+    [].forEach.call(sp.querySelectorAll('[data-rfs]'),function(b){b.classList.toggle('on',+b.getAttribute('data-rfs')===o.fs)});
+    var a=sp.querySelector('[data-rk="hc"]'),b=sp.querySelector('[data-rk="cmd"]');
+    if(a)a.checked=!!o.hc;if(b)b.checked=!!o.cmd;
+  }
+  rdApply(rdGet());
+  d.addEventListener('click',function(e){
+    var n=e.target.closest?e.target.closest('[data-rfs]'):null;
+    if(n)rdSet({fs:+n.getAttribute('data-rfs')});
+  });
+  d.addEventListener('change',function(e){
+    var n=e.target;
+    if(n&&n.getAttribute&&n.getAttribute('data-rk'))rdSet(function(){var o={};o[n.getAttribute('data-rk')]=n.checked?1:0;return o}());
+  });
   function build(){
     var i,x='';
     x+='<div class="spb" role="dialog" aria-modal="true" aria-label="'+T('настройки')+'">';
     x+='<div class="sph"><b>'+T('настройки')+'</b><button type="button" class="spx" data-a="close" aria-label="'+T('закрыть')+'">'+XI+'</button></div>';
     x+='<div class="sps"><h4>'+T('тема')+'</h4><div class="sgm"><button type="button" data-th="light">'+T('светлая')+'</button><button type="button" data-th="gray">'+T('серая')+'</button><button type="button" data-th="auto">'+T('авто')+'</button></div></div>';
     x+='<div class="sps"><h4>'+T('язык')+'</h4><div class="sgm"><button type="button" data-lg="ru">Русский</button><button type="button" data-lg="en">English</button></div></div>';
+    x+='<div class="sps"><h4>'+T('чтение')+'</h4><p class="spm">'+T('размер текста')+'</p><div class="sgm"><button type="button" data-rfs="0">'+T('обычный')+'</button><button type="button" data-rfs="1">'+T('крупнее')+'</button><button type="button" data-rfs="2">'+T('ещё крупнее')+'</button></div>';
+    x+='<label class="spc"><input type="checkbox" data-rk="hc"><span>'+T('высокий контраст')+'</span></label><label class="spc"><input type="checkbox" data-rk="cmd"><span>'+T('только команды в справочнике')+'</span></label></div>';
     x+='<div class="sps"><h4>'+T('акцентный цвет')+'</h4><p class="spm">'+T('кнопки и детали')+'</p><div class="spp" data-box="apre">';
     for(i=0;i<APRE.length;i++)x+='<button type="button" class="pr" data-ap="'+i+'" style="background:linear-gradient(135deg,'+APRE[i][0]+','+APRE[i][1]+')" aria-label="'+APRE[i][0]+'"></button>';
     x+='</div><div class="spr"><label>'+T('цвет 1')+'<input type="color" data-k="c1"></label><label>'+T('цвет 2')+'<input type="color" data-k="c2"></label></div>';
@@ -163,7 +194,7 @@
     x+='<p class="spm">'+T('пресеты')+'</p><div class="spp" data-box="bpre"></div>';
     x+='<button type="button" class="spq" data-a="rbg">'+T('сбросить')+'</button></div>';
     x+='</div>';
-    sp.innerHTML=x;
+    sp.innerHTML=x;rdSync();
   }
   function q(k){return sp.querySelector('[data-k="'+k+'"]')}
   function refresh(){
@@ -256,7 +287,7 @@
   function pack(){return {t:get(),g:getGrad(),a:getAcc(),l:lang(),ts:ts()}}
   window.CloudTheme={
     get:get,
-    setAuto:setAuto,
+    setAuto:setAuto,getRd:rdGet,setRd:rdSet,
     set:function(v){set(v);var b=d.getElementById('tb');if(b)paint(b);touch();fire()},
     apply:function(ui){
       if(!ui)return;

diff --git a/docs/settings.css b/docs/settings.css
@@ -42,3 +42,10 @@ html.sp-open{overflow:hidden}
 .spv .pv2{flex:1;height:38px;border-radius:10px}
 .spq{padding:8px 16px;border:1px solid var(--line);border-radius:10px;background:none;color:var(--mute);font:inherit;font-size:14px;cursor:pointer}
 .spq:hover{border-color:var(--ac);color:var(--ac)}
+
+html[data-fs="1"] main{zoom:1.1}
+html[data-fs="2"] main{zoom:1.22}
+html[data-hc="1"][data-theme="gray"]{--mute:#cdd4de;--line:#5d636e;--ink:#fff}
+html[data-hc="1"][data-theme="light"]{--mute:#313d4c;--line:#98a4b6;--ink:#000}
+html[data-cmd="1"] #cloud p,html[data-cmd="1"] #cloud ul,html[data-cmd="1"] #cloud ol,html[data-cmd="1"] #cloud table,html[data-cmd="1"] #cloud .note,html[data-cmd="1"] #cloud .lead{display:none}
+html[data-cmd="1"] #cloud .m-uefi,html[data-cmd="1"] #cloud .m-bios{margin:0}

diff --git a/docs/style.css b/docs/style.css
@@ -88,6 +88,8 @@ footer p{margin:0 0 6px}
 .ddw{position:relative;display:inline-flex}
 .ddm{position:fixed;top:58px;right:12px;z-index:40;display:flex;flex-direction:column;gap:2px;min-width:210px;max-width:calc(100vw - 24px);padding:6px;border:1px solid var(--line);border-radius:12px;background:var(--surf)}
 .ddm[hidden]{display:none}
+.ddm{max-height:calc(100vh - 70px);overflow-y:auto}
+.ddh{padding:8px 12px 4px;color:var(--mute);font-size:12px;font-weight:600}
 .ddi{display:flex;align-items:center;gap:10px;padding:9px 12px;border-radius:9px;color:var(--ink);text-decoration:none;font-size:14px;font-weight:500}
 .ddi svg{width:17px;height:17px;flex:none;fill:none;stroke:var(--mute);stroke-width:1.8;stroke-linecap:round;stroke-linejoin:round}
 .ddi:hover{background:var(--side)}
